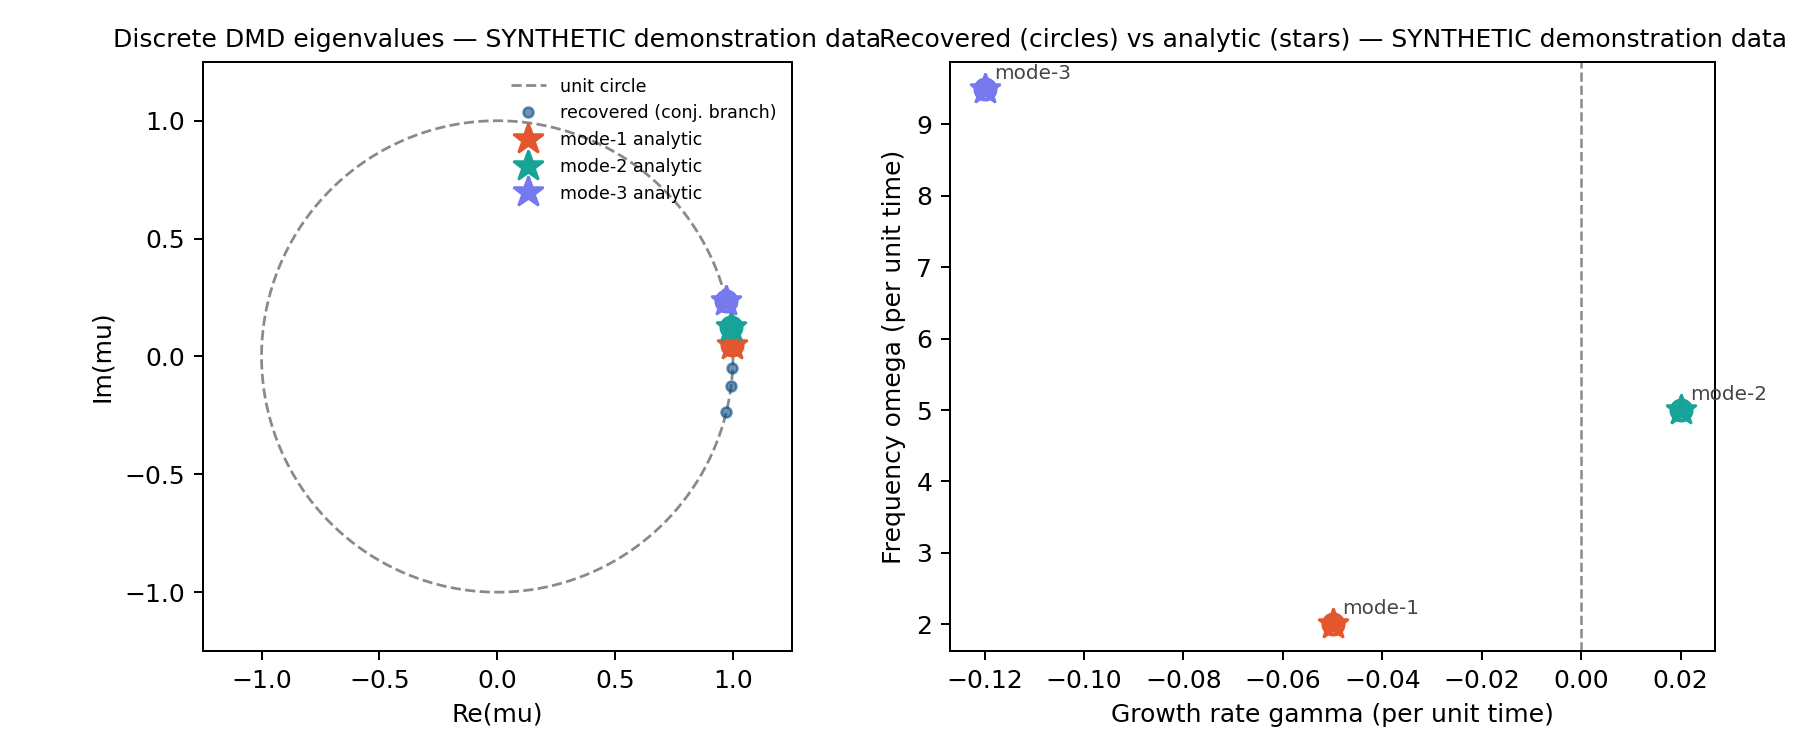
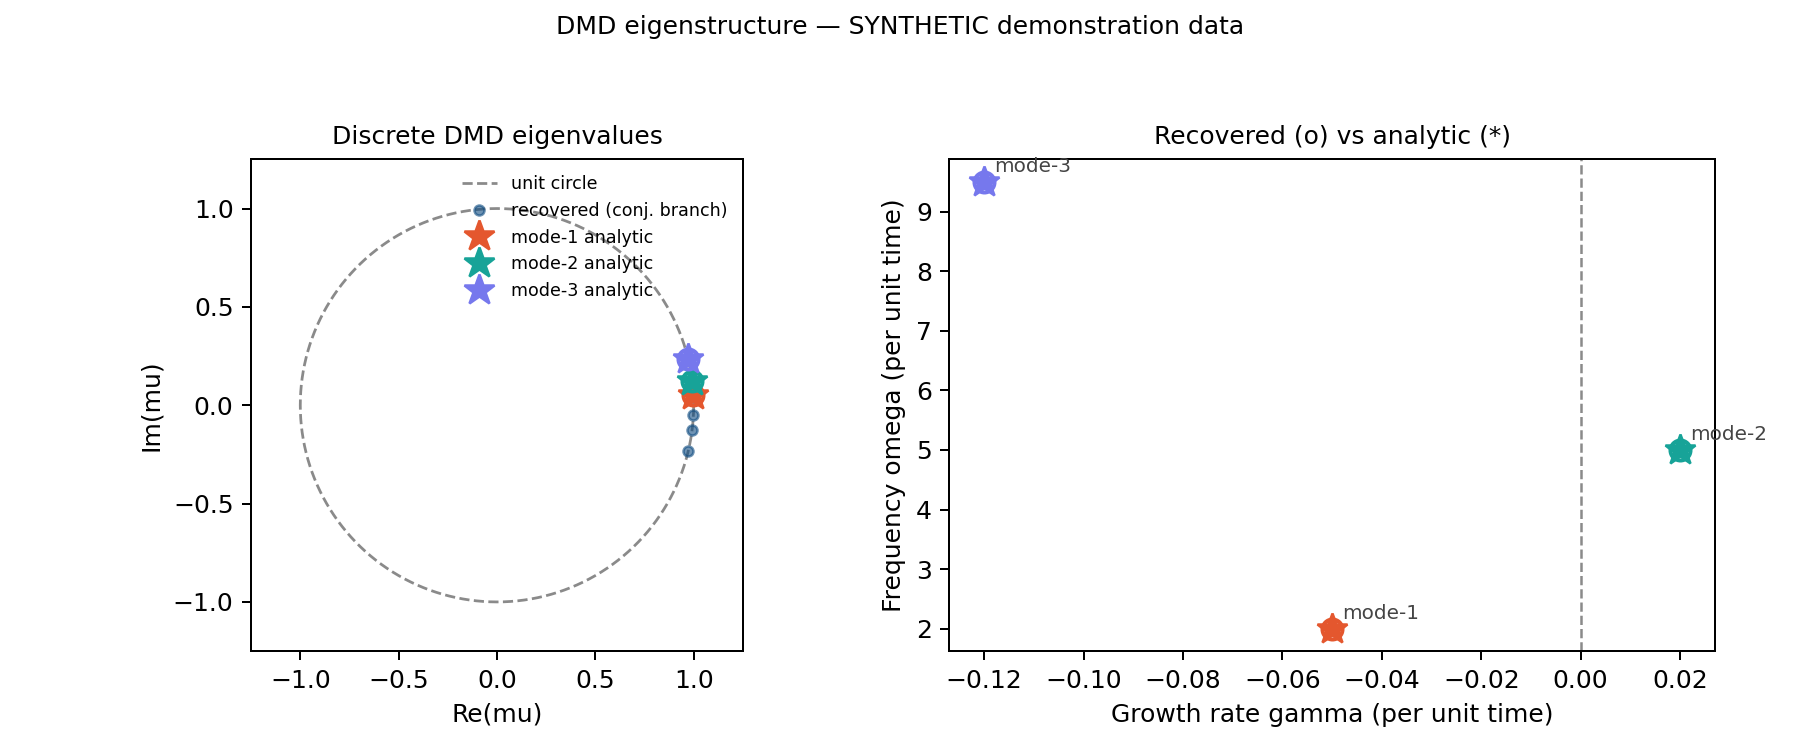
Presentation and docs fixes: rank-aware sweep, unclipped titles, dev quick start, POD energy claim

diff --git a/examples/run_verification.py b/examples/run_verification.py
@@ -89,7 +89,7 @@ def pod_spectrum_figure(pod, path: Path) -> None:
     )
     ax_left.set_xlabel("POD mode index")
     ax_left.set_ylabel("Singular value")
-    ax_left.set_title(f"Singular values — {SYNTHETIC_NOTE}", fontsize=10)
+    ax_left.set_title("Singular values", fontsize=10)
 
     ax_right.bar(
         indices,
@@ -111,7 +111,7 @@ def pod_spectrum_figure(pod, path: Path) -> None:
     ax_right.set_ylabel("Energy fraction")
     ax_right.set_ylim(0.0, 1.05)
     ax_right.legend(frameon=False, fontsize=8)
-    ax_right.set_title(f"POD energy fractions (sum = 1) — {SYNTHETIC_NOTE}", fontsize=10)
+    ax_right.set_title("POD energy fractions (sum = 1)", fontsize=10)
 
     fig.tight_layout()
     fig.savefig(path, dpi=180, facecolor="white")
@@ -160,7 +160,7 @@ def dmd_eigenvalue_figure(dmd, idx, growth, freq, names, dt, path: Path) -> None
     ax_left.set_ylim(-1.25, 1.25)
     ax_left.set_xlim(-1.25, 1.25)
     ax_left.legend(frameon=False, fontsize=7, loc="upper right")
-    ax_left.set_title(f"Discrete DMD eigenvalues — {SYNTHETIC_NOTE}", fontsize=10)
+    ax_left.set_title("Discrete DMD eigenvalues", fontsize=10)
 
     for k in range(len(names)):
         rec_gamma = dmd.growth_rates[idx[k]]
@@ -191,32 +191,33 @@ def dmd_eigenvalue_figure(dmd, idx, growth, freq, names, dt, path: Path) -> None
                       xytext=(4, 0), textcoords="offset points")
     ax_right.set_xlabel("Growth rate gamma (per unit time)")
     ax_right.set_ylabel("Frequency omega (per unit time)")
-    ax_right.set_title(f"Recovered (circles) vs analytic (stars) — {SYNTHETIC_NOTE}", fontsize=10)
+    ax_right.set_title("Recovered (o) vs analytic (*)", fontsize=10)
 
-    fig.tight_layout()
+    fig.suptitle(f"DMD eigenstructure — {SYNTHETIC_NOTE}", fontsize=10)
+    fig.tight_layout(rect=(0.0, 0.0, 1.0, 0.94))
     fig.savefig(path, dpi=180, facecolor="white")
     plt.close(fig)
 
 
-def reconstruction_figure(u_clean, times, grid, pod8, dmd, dmd_rank_errors, path: Path) -> None:
+def reconstruction_figure(u_clean, times, grid, pod8, dmd, dmd_rank_errors,
+                          sweep_ranks, path: Path) -> None:
     fig, (ax_left, ax_right) = plt.subplots(1, 2, figsize=(10, 4))
     norm_u = np.linalg.norm(u_clean)
 
-    ranks = np.arange(1, 9)
     pod_errors = [
-        float(np.linalg.norm(pod8.reconstruct(rank=int(r)) - u_clean) / norm_u) for r in ranks
+        float(np.linalg.norm(pod8.reconstruct(rank=int(r)) - u_clean) / norm_u) for r in sweep_ranks
     ]
     floor = max(min(pod_errors + list(dmd_rank_errors)), 1e-17)
-    ax_left.semilogy(ranks, pod_errors, "o-", color=COLOR_TOTAL, lw=1.5, ms=5, label="POD")
+    ax_left.semilogy(sweep_ranks, pod_errors, "o-", color=COLOR_TOTAL, lw=1.5, ms=5, label="POD")
     ax_left.semilogy(
-        ranks, dmd_rank_errors, "s-", color=COLOR_MODES[0], lw=1.5, ms=5,
+        sweep_ranks, dmd_rank_errors, "s-", color=COLOR_MODES[0], lw=1.5, ms=5,
         label="exact DMD (delays=2)",
     )
     ax_left.set_ylim(floor * 0.1, 10.0)
     ax_left.set_xlabel("retained rank r")
     ax_left.set_ylabel("relative reconstruction error")
     ax_left.legend(frameon=False, fontsize=8)
-    ax_left.set_title(f"Training-window reconstruction error — {SYNTHETIC_NOTE}", fontsize=10)
+    ax_left.set_title("Training-window reconstruction error", fontsize=10)
 
     jx = int(np.argmin(np.abs(grid - 0.35)))
     dmd_recon = dmd.reconstruct(times)
@@ -232,7 +233,7 @@ def reconstruction_figure(u_clean, times, grid, pod8, dmd, dmd_rank_errors, path
     ax_right.set_xlabel("t (nondimensional)")
     ax_right.set_ylabel(f"u(x* = {grid[jx]:.3f}, t)")
     ax_right.legend(frameon=False, fontsize=8)
-    ax_right.set_title(f"Reconstruction at a probe point — {SYNTHETIC_NOTE}", fontsize=10)
+    ax_right.set_title("Reconstruction at a probe point", fontsize=10)
 
     fig.tight_layout()
     fig.savefig(path, dpi=180, facecolor="white")
@@ -340,7 +341,10 @@ def main() -> None:
         np.linalg.norm(dmd.reconstruct(times) - u_clean) / np.linalg.norm(u_clean)
     )
 
-    # rank sweep for the error-vs-rank curve
+    # rank sweep for the error-vs-rank curve: honor the numerical rank
+    # (the guard added with the core fixes rejects oversized requests).
+    dmd_probe = compute_dmd(u_clean, dt=DT, delays=DELAYS)
+    sweep_ranks = np.arange(1, min(8, dmd_probe.rank) + 1)
     dmd_rank_errors = [
         float(
             np.linalg.norm(
@@ -349,7 +353,7 @@ def main() -> None:
             )
             / np.linalg.norm(u_clean)
         )
-        for r in range(1, 9)
+        for r in sweep_ranks
     ]
 
     # extrapolation exercise
@@ -404,6 +408,7 @@ def main() -> None:
         pod8,
         dmd,
         dmd_rank_errors,
+        sweep_ranks,
         RESULTS_DIR / "reconstruction_error.png",
     )
     summary["runtime_seconds"]["dmd_and_figures"] = time.perf_counter() - t0
@@ -510,16 +515,17 @@ def main() -> None:
     ax.set_ylabel("u (nondimensional)")
     title = ax.set_title("")
     ax.legend(loc="lower left", fontsize=7, ncol=4, frameon=False)
-    fig.tight_layout()
+    fig.subplots_adjust(left=0.09, right=0.98, top=0.84, bottom=0.13)
 
     def update(frame_number: int):
         j = int(frame_indices[frame_number])
         line_total.set_ydata(u_clean[:, j])
         for k, line in enumerate(mode_lines):
             line.set_ydata(contributions[k, :, j])
+        # Two short lines keep the title inside the canvas; the shared
+        # SYNTHETIC-data caption lives in the figure caption above.
         title.set_text(
-            f"{SYNTHETIC_NOTE}: u(x, t) at t = {times[j]:.2f} "
-            "(3 known modes; generated data, not a physical measurement)"
+            f"u(x, t) at t = {times[j]:.2f} — {SYNTHETIC_NOTE}"
         )
         return (line_total, *mode_lines, title)
 

diff --git a/README.md b/README.md
@@ -56,8 +56,8 @@ data. All data here is synthetic.
 
 ```bash
 python -m venv .venv && .venv/Scripts/activate   # or source .venv/bin/activate
-pip install -r requirements.txt
-pytest                      # needs requirements-dev.txt
+pip install -r requirements-dev.txt   # runtime + pytest for the documented test flow
+pytest                                # 81 tests (incl. eigenvalue/rank contract regressions)
 python examples/run_verification.py   # regenerates everything in docs/results/
 ```
 
@@ -119,12 +119,17 @@ Result figures: [POD spectrum](docs/results/pod_spectrum.png) ·
 
 ## Verification summary
 
-75 pytest tests, all passing (`pytest -q`). Highlights:
+81 pytest tests, all passing (`pytest -q`; the six added contract tests
+cover alternating-decay Nyquist behavior, zero-eigenvalue impulse
+reconstruction, and numerical-rank rejection). Highlights:
 
 * POD energy fractions sum to 1 to roundoff; noise-free data of 3 modes has
   exactly 3 nonzero singular values at the machine-precision threshold;
   the POD basis reproduces the analytic shape subspace (> 0.99 asserted,
-  1.0 measured).
+  1.0 measured). The POD energy fractions describe the *centered snapshot
+  covariance* (finite-window temporal cross-correlations mix the analytic
+  modes), so they are not the individual analytic amplitude energies; the
+  subspace verification above is the analytic claim.
 * Exact DMD (Hankel-embedded, delays = 2) recovers every known `omega_k`
   and `gamma_k` to < 1e-10 asserted tolerance (spec target 1e-6; measured
   ~1e-14).
